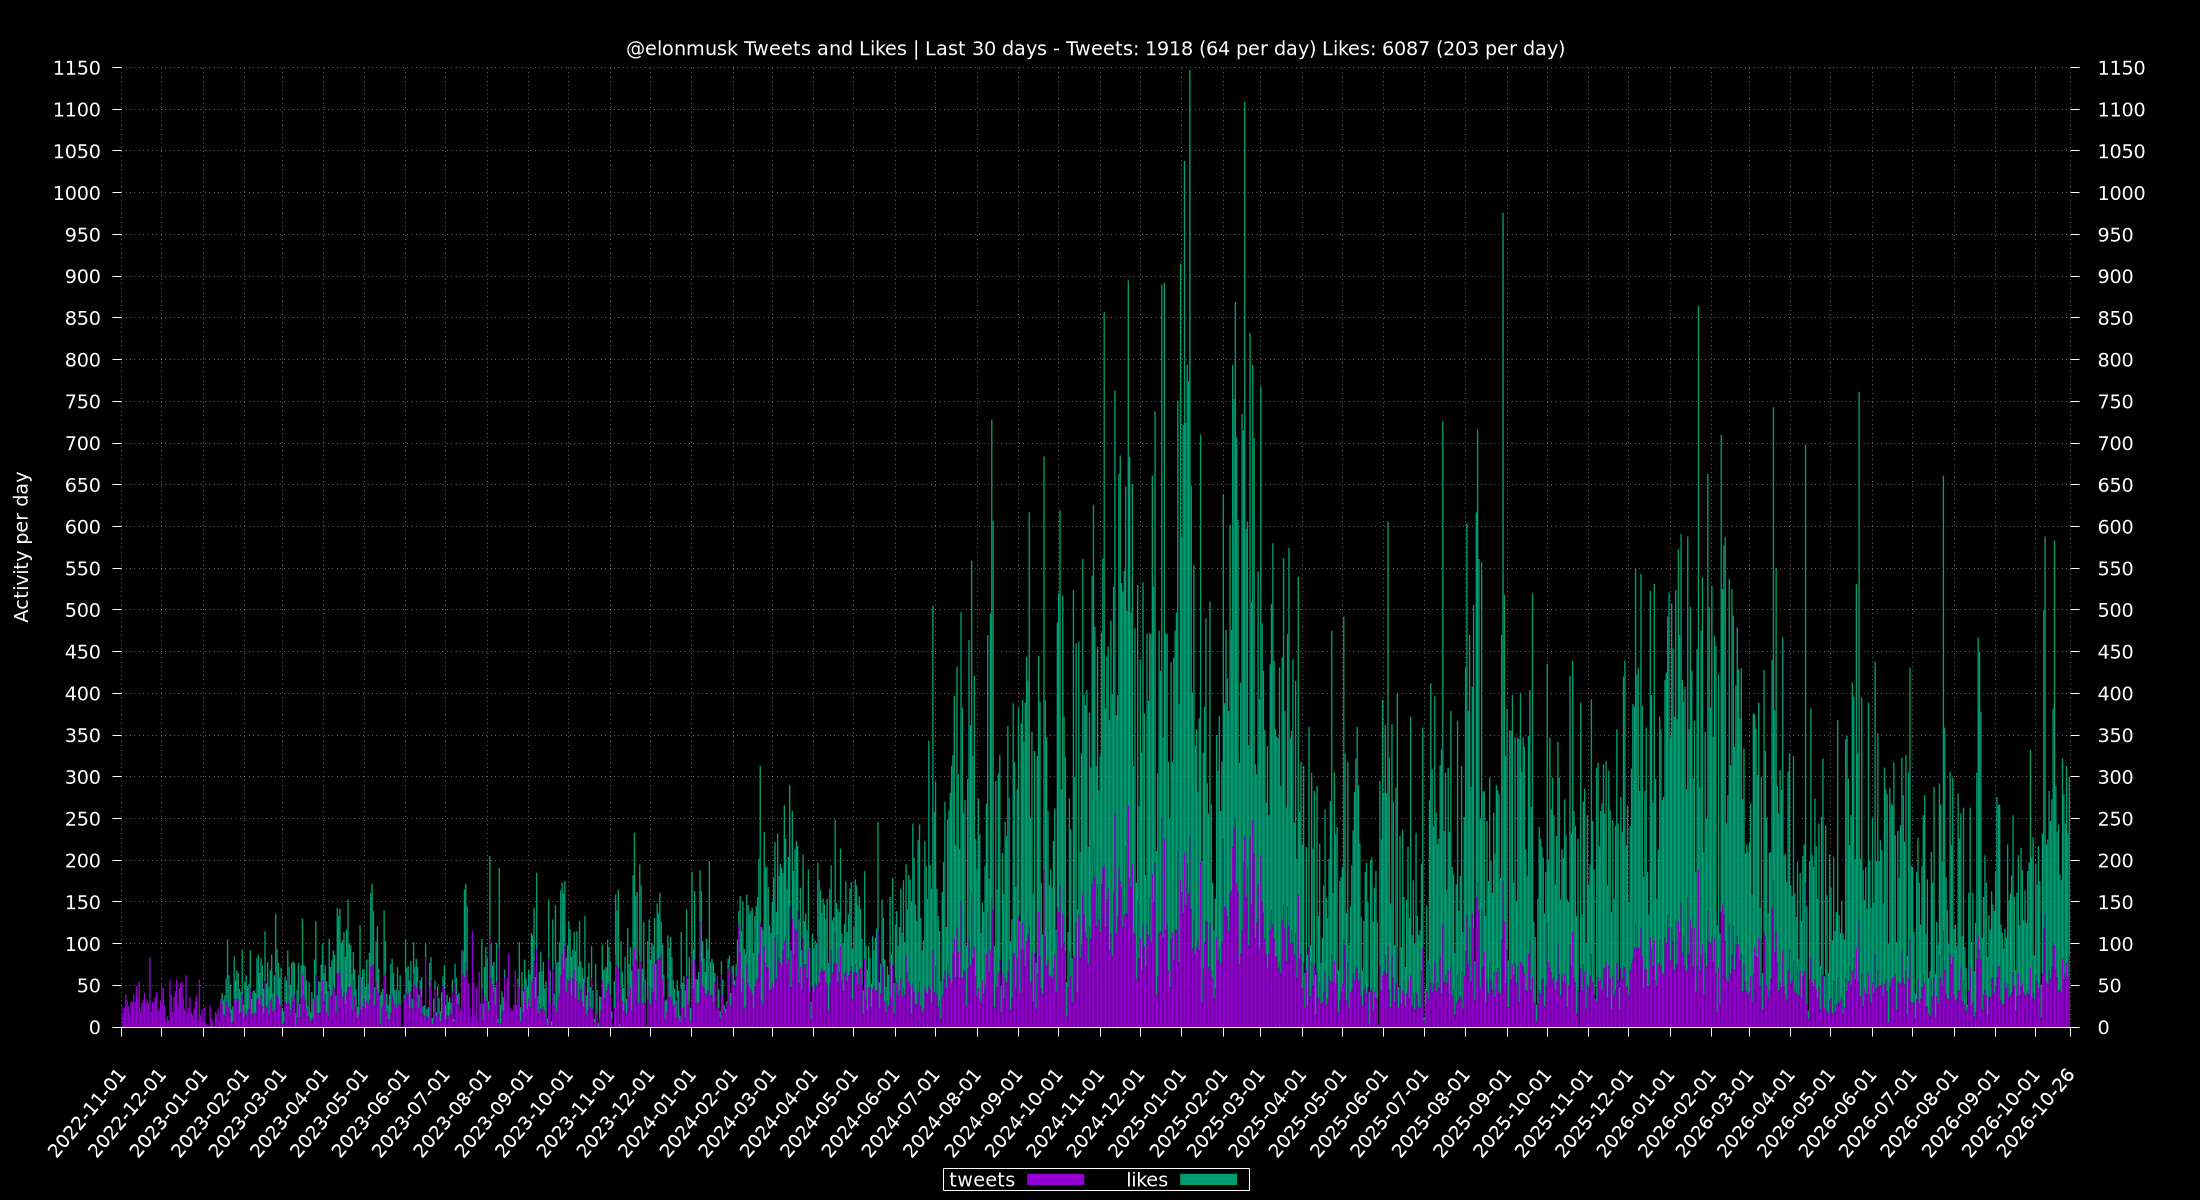
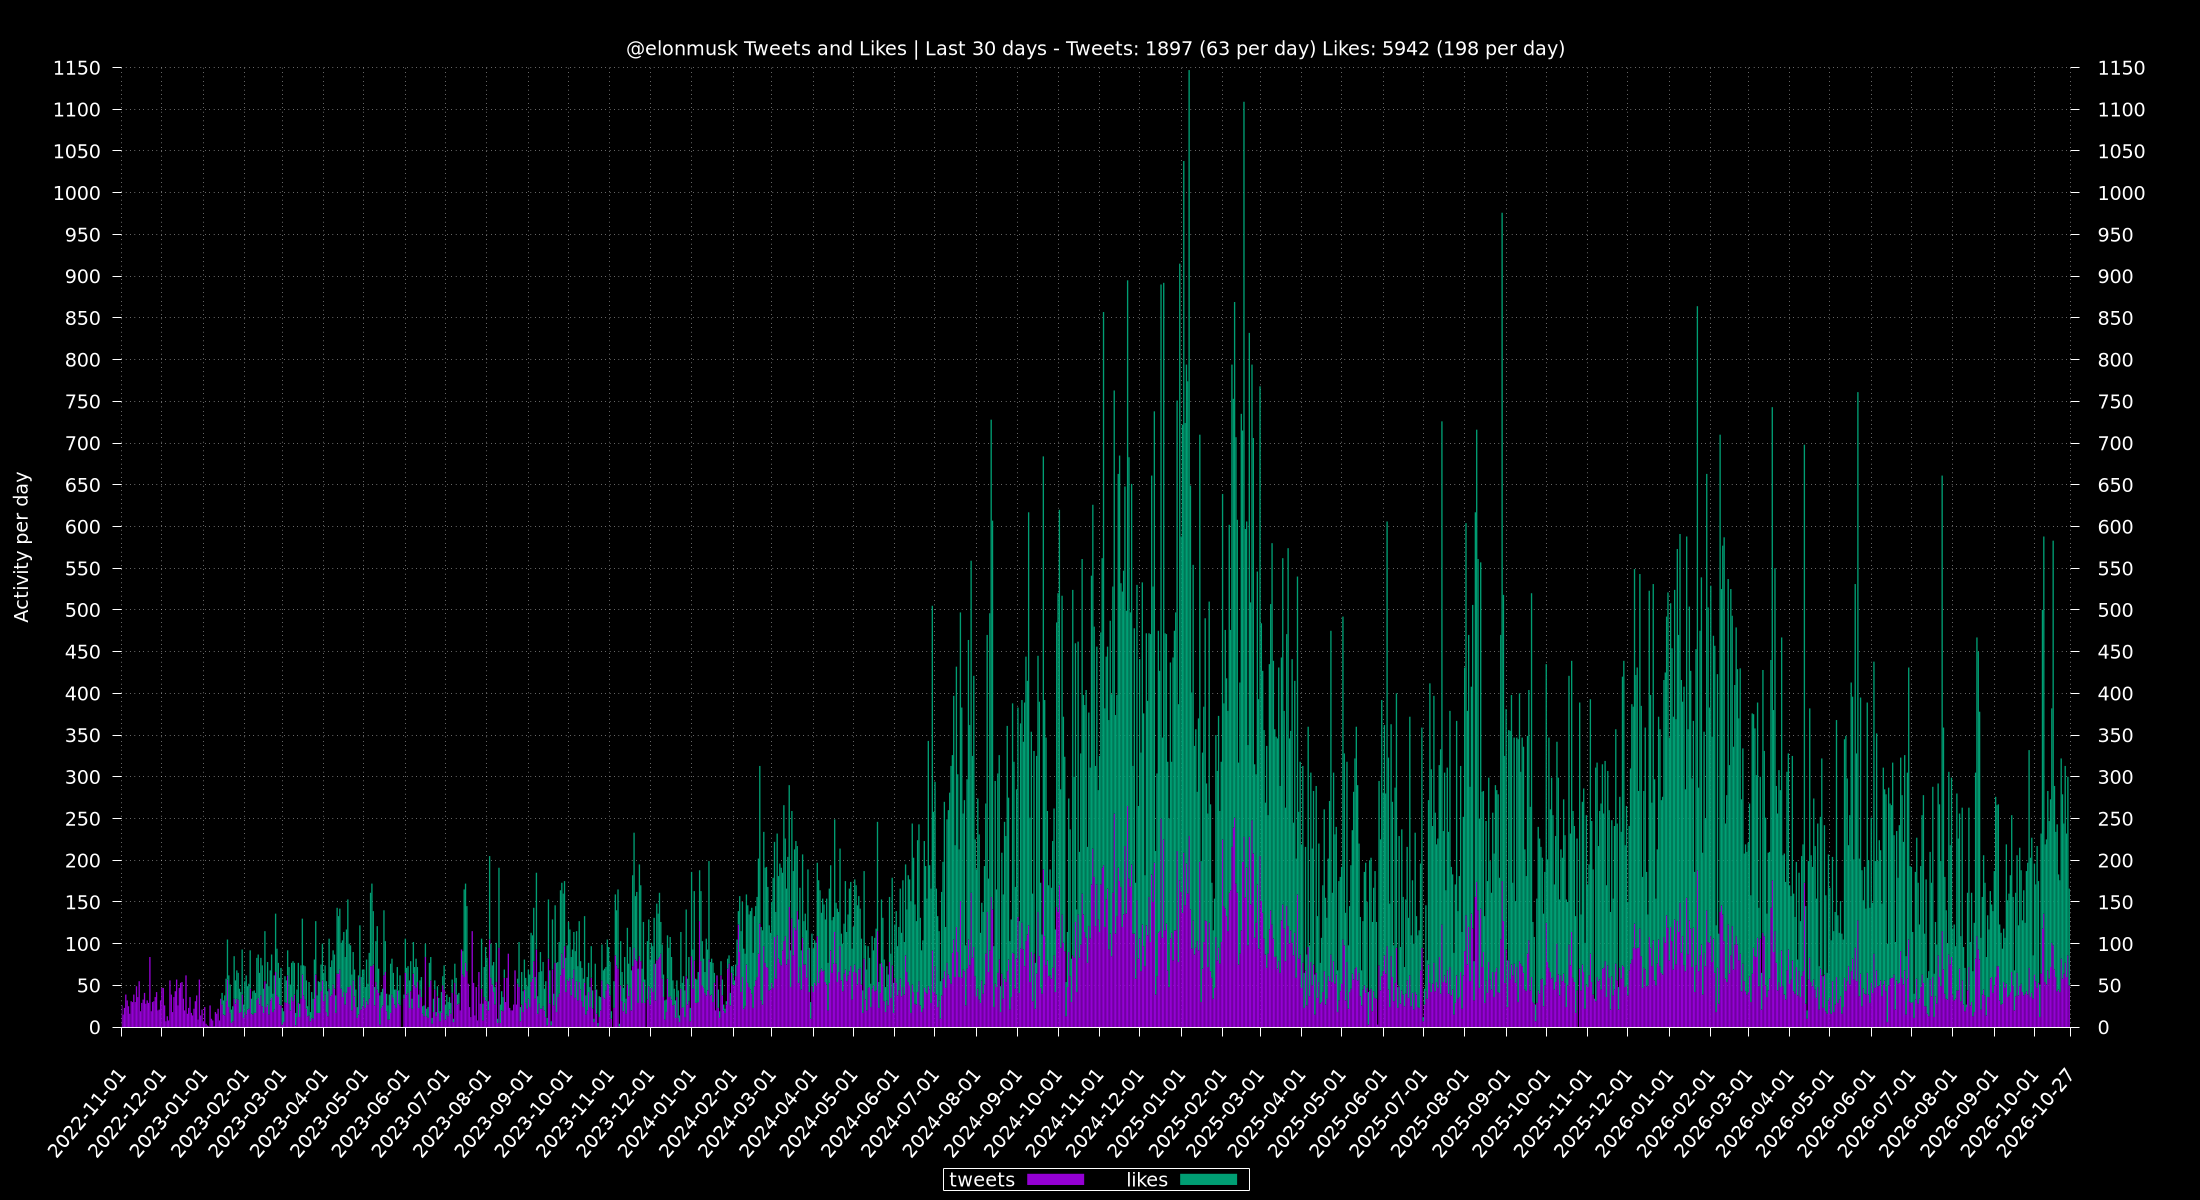
update via cron

diff --git a/totals/README.md b/totals/README.md
@@ -1,6 +1,6 @@
 ## Last 30 Days
-Tweets: 1918 (64 per day)\
-Likes: 6087 (203 per day)
+Tweets: 1897 (63 per day)\
+Likes: 5942 (198 per day)
 
 ## 24 Hours
 Max: [**341**](../misc/most-tweets_24-hr.csv) - From `2024-11-23 14:29:53 CST` To `2024-11-24 14:28:44 CST`
